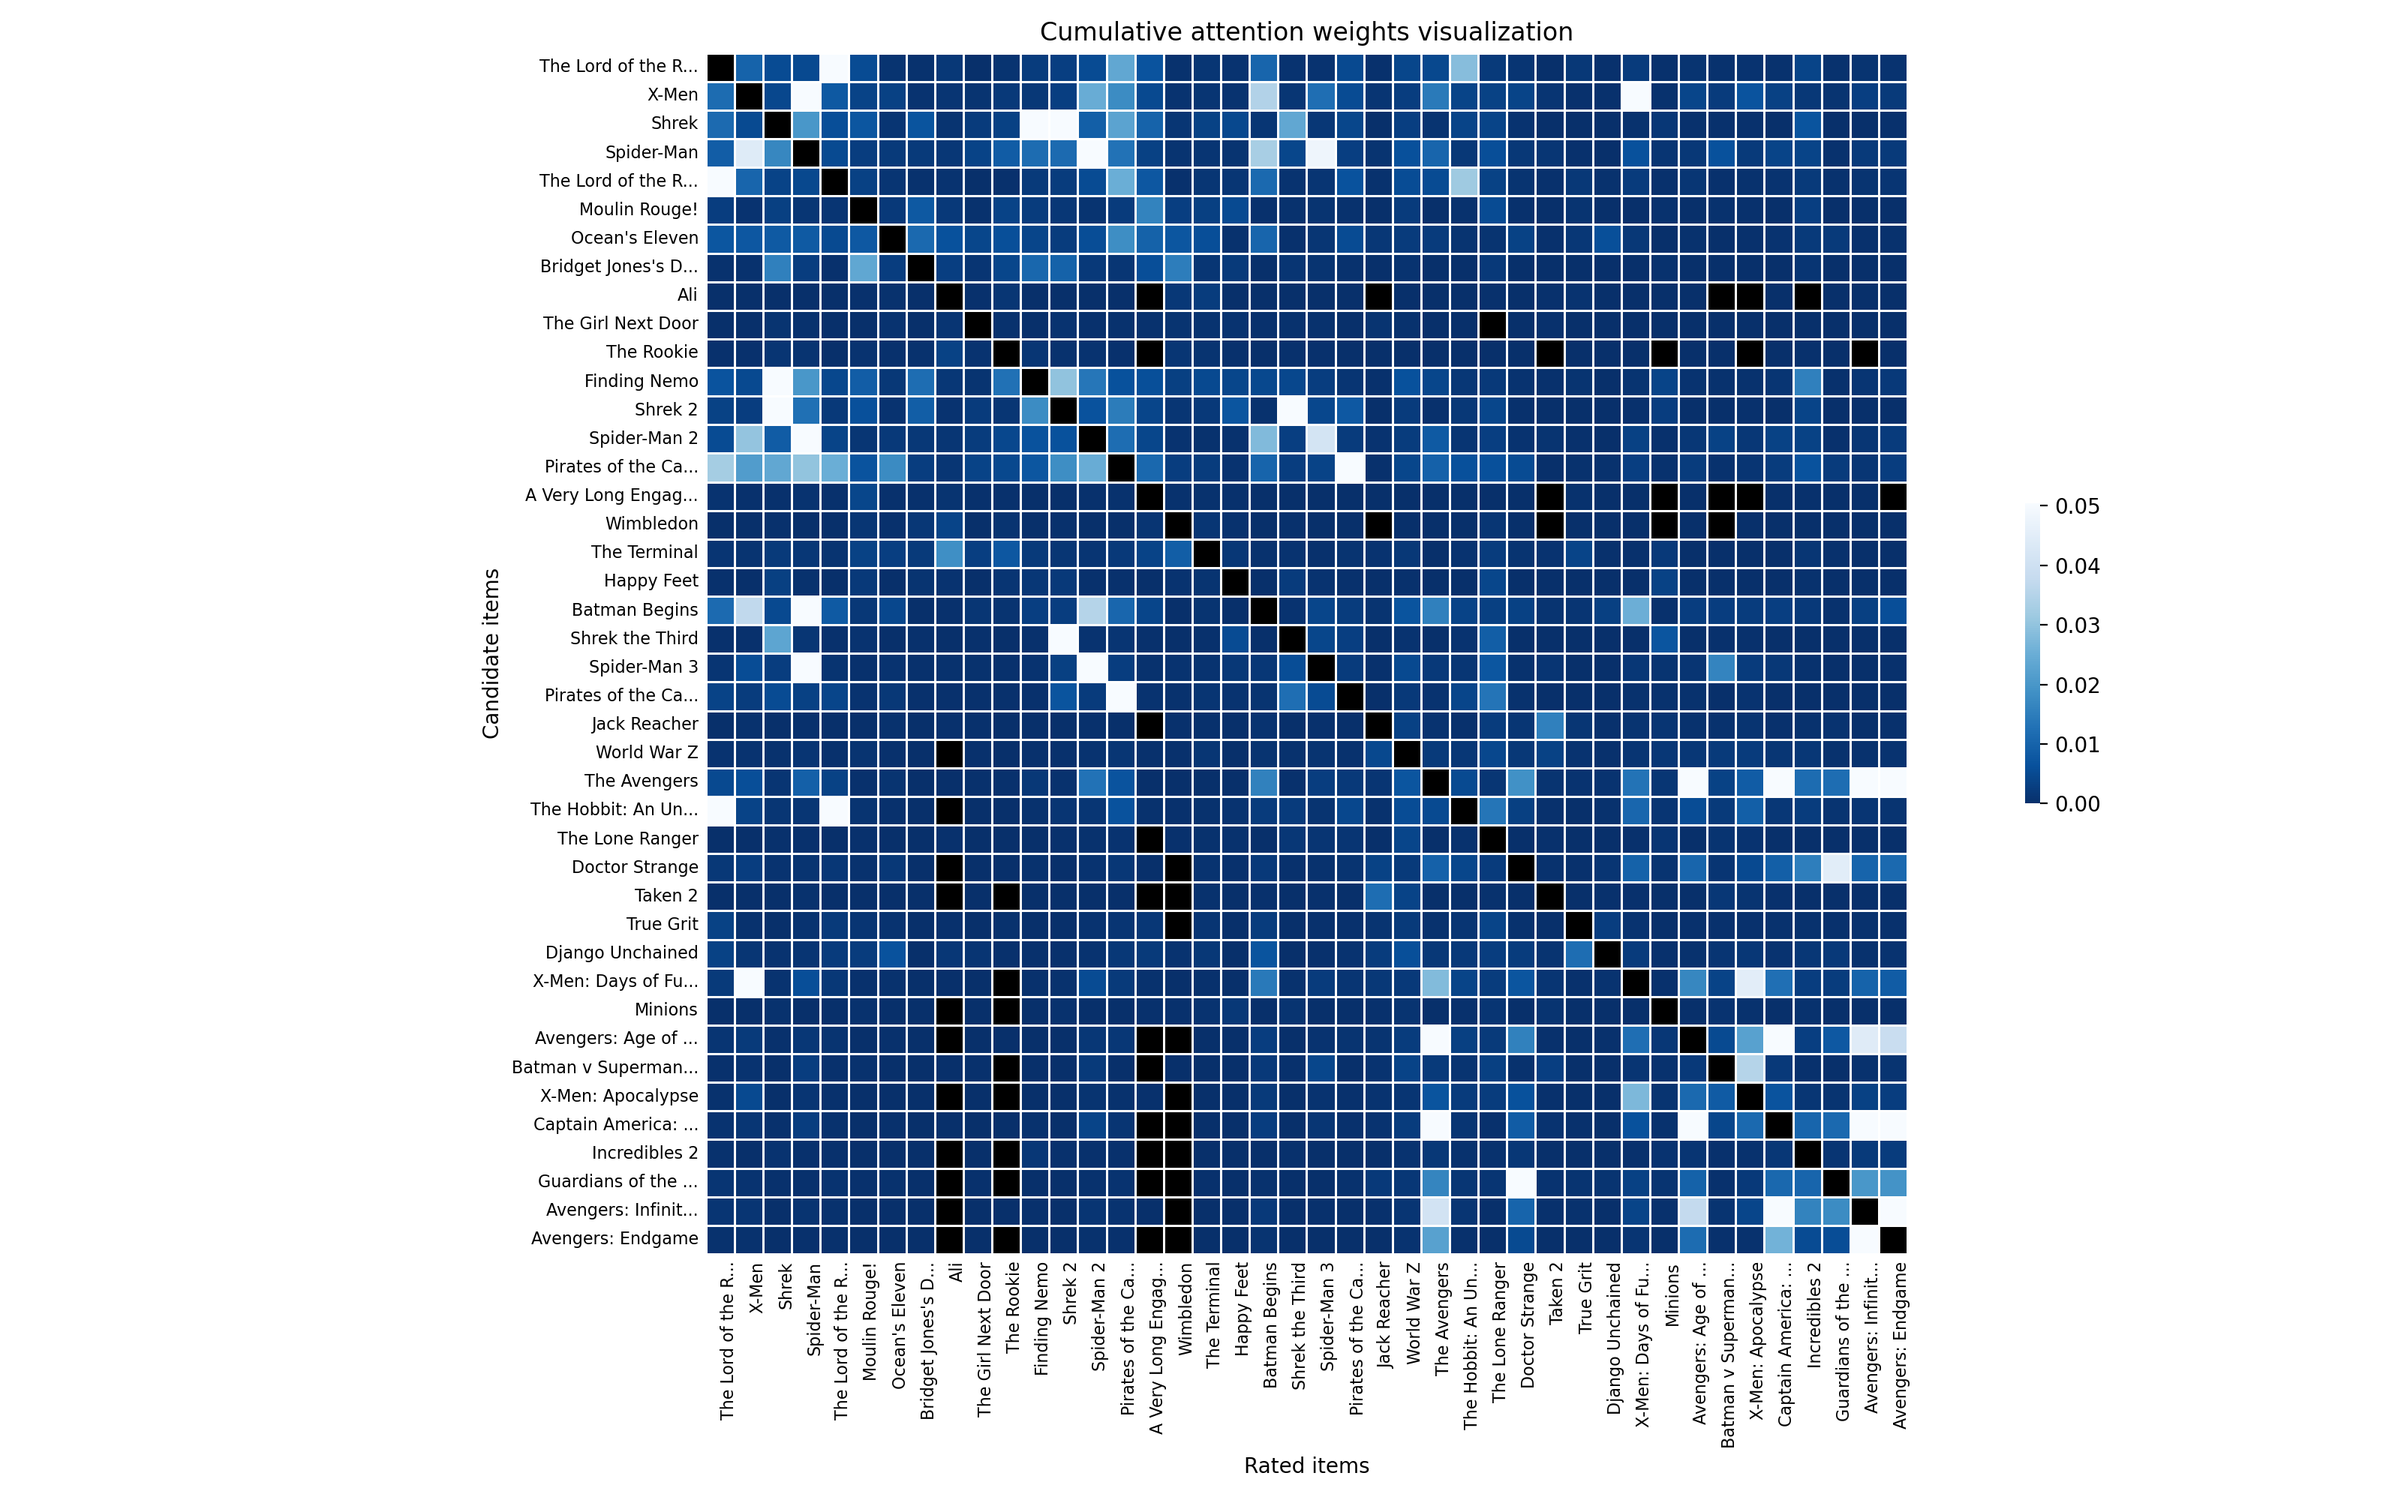
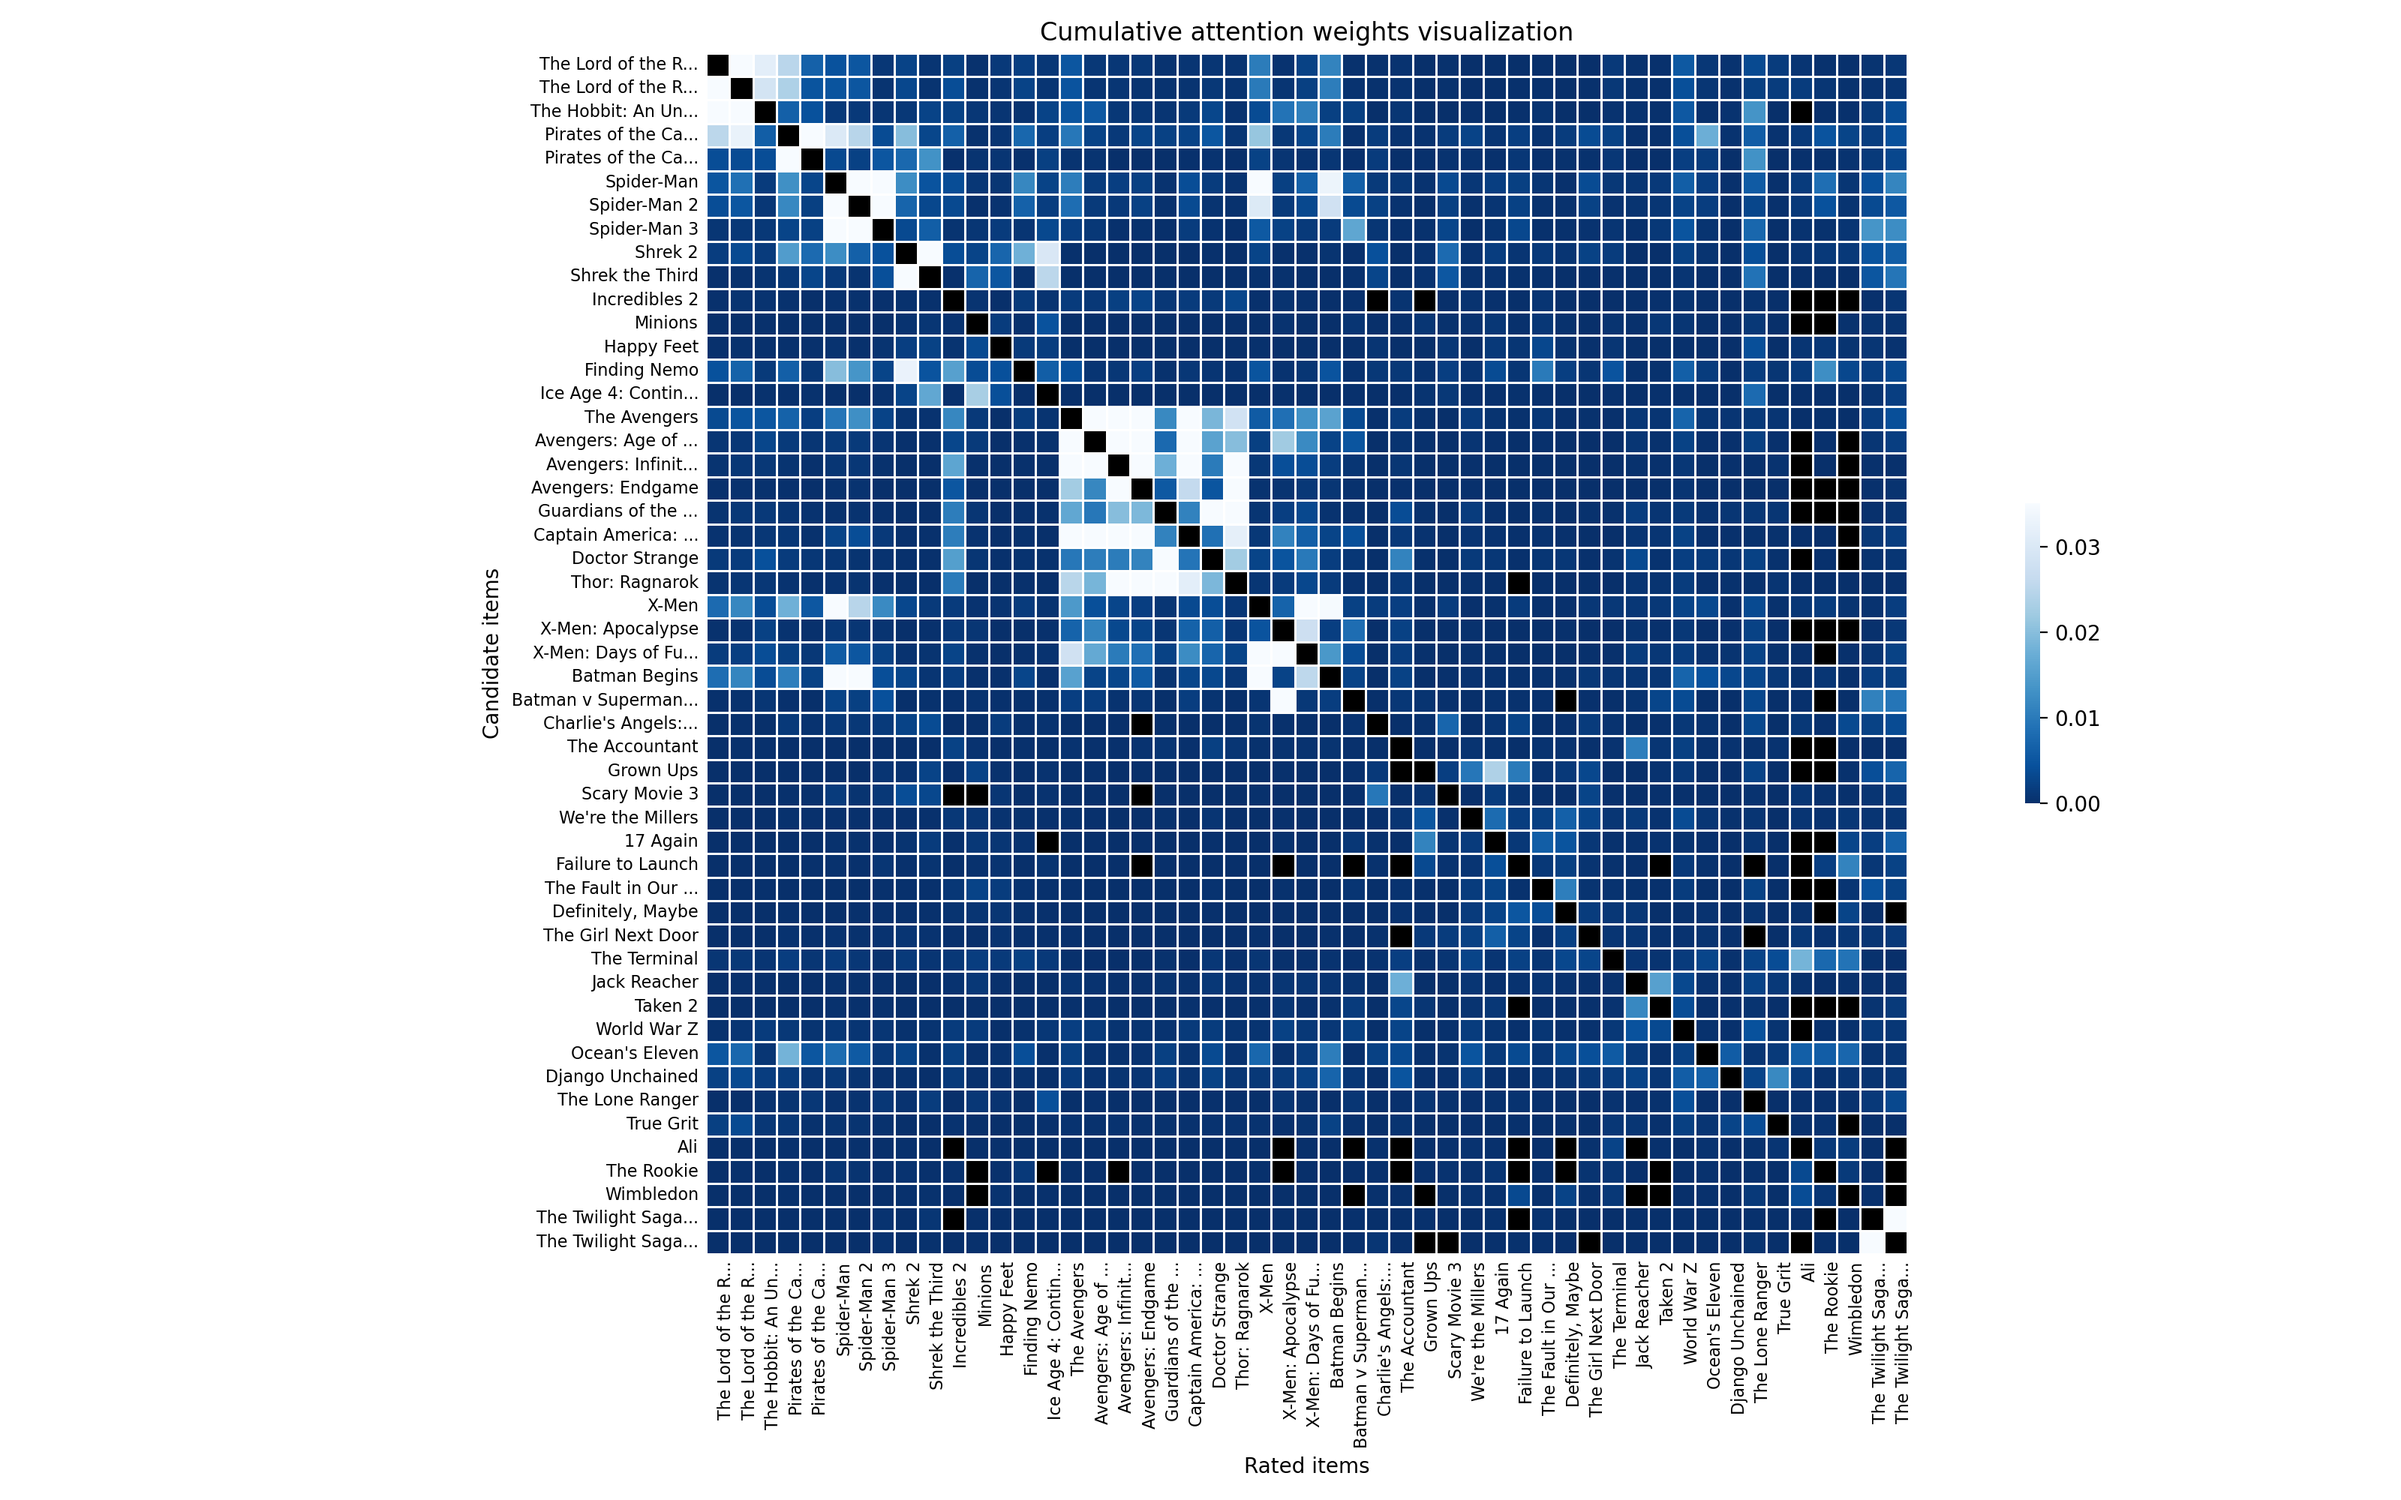
reordering of items

diff --git a/src/neural_collaborative_filtering/plots.py b/src/neural_collaborative_filtering/plots.py
@@ -142,24 +142,30 @@ def visualize_attention(weights: np.array, user_matrix: np.array, candidate_name
 
 def plot_att_stats(att_stats, item_names, item_ids):
     """ x-axis is rated items and y-axis is candidate items. It's not a symmetric relationship """
-    keep_movies = [
+    keep_movies = np.array([
         'tt0167261', 'tt0120737', 'tt0903624',  # LOTR + hobbit,
         'tt0325980', 'tt0449088',               # Pirates of the caribean
-        'tt0145487', 'tt0316654', 'tt0413300',  # Spiderman
+        'tt0145487', 'tt0316654', 'tt0413300', 'tt1872181'     # Spiderman + Amazing Spiderman
         'tt0126029', 'tt0298148', 'tt0413267',  # Shrek
-        'tt3606756', 'tt2293640', 'tt0366548', 'tt0266543',    # other cartoons
+        'tt3606756', 'tt2293640', 'tt0366548', 'tt0266543', 'tt1667889',   # other cartoons
         'tt0848228', 'tt2395427', 'tt4154756', 'tt4154796',    # Avengers
+        'tt3896198', 'tt3498820', 'tt1211837', 'tt3501632',    # marvel
         'tt0120903', 'tt3385516', 'tt1877832',  # X-men
-        'tt3896198', 'tt3498820', 'tt1211837',  # marvel
+        'tt0372784', 'tt2975590',               # Batman
+        'tt0305357', 'tt2140479',               # action
+        'tt1375670', 'tt0306047', 'tt1723121', 'tt0974661',   # comedies
+        'tt0427229', 'tt2582846', 'tt0832266', 'tt0265208', 'tt0362227',  # romances
         'tt0790724', 'tt1397280', 'tt0816711', 'tt0240772',    # thrillers
         'tt1853728', 'tt1210819', 'tt1403865',  # westerns
-        'tt0203009', 'tt0344510', 'tt0243155', 'tt0265208', 'tt0362227',   # romances
         'tt0248667', 'tt0265662', 'tt0360201',  # sports
-        'tt0372784', 'tt2975590'                # Batman
-    ]
+        # 'tt0241527', 'tt0295297', 'tt0304141', 'tt0330373', 'tt0373889', 'tt0417741', 'tt0926084', 'tt1201607'  # Harry Potter
+        'tt1324999', 'tt1673434'                # twilight
+    ])
 
     # mask out the other movies
-    mask = [item in keep_movies for item in item_ids]
+    # Old way: mask = [item in keep_movies for item in item_ids]
+    # This reorders them as in keep_movies
+    mask = np.where(keep_movies.reshape(keep_movies.size, 1) == item_ids)[1]
     att_stats['sum'] = att_stats['sum'][mask, :][:, mask]
     att_stats['count'] = att_stats['count'][mask, :][:, mask]
     item_names = item_names[mask]
